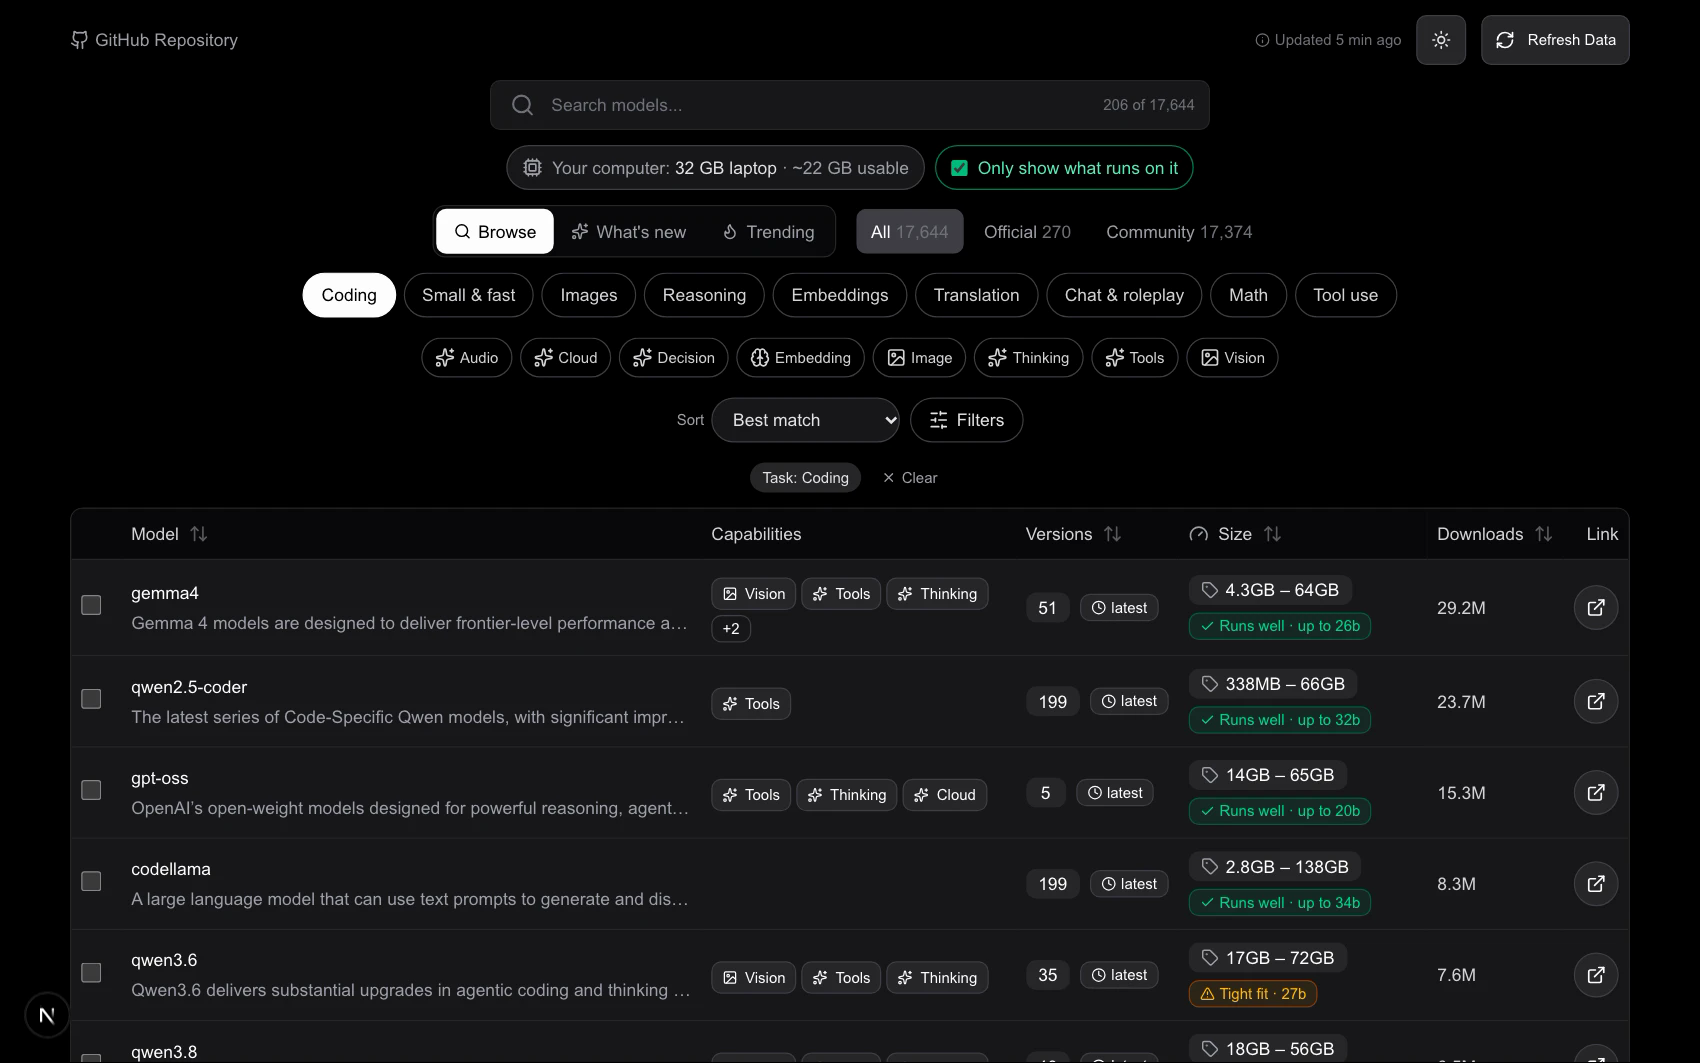
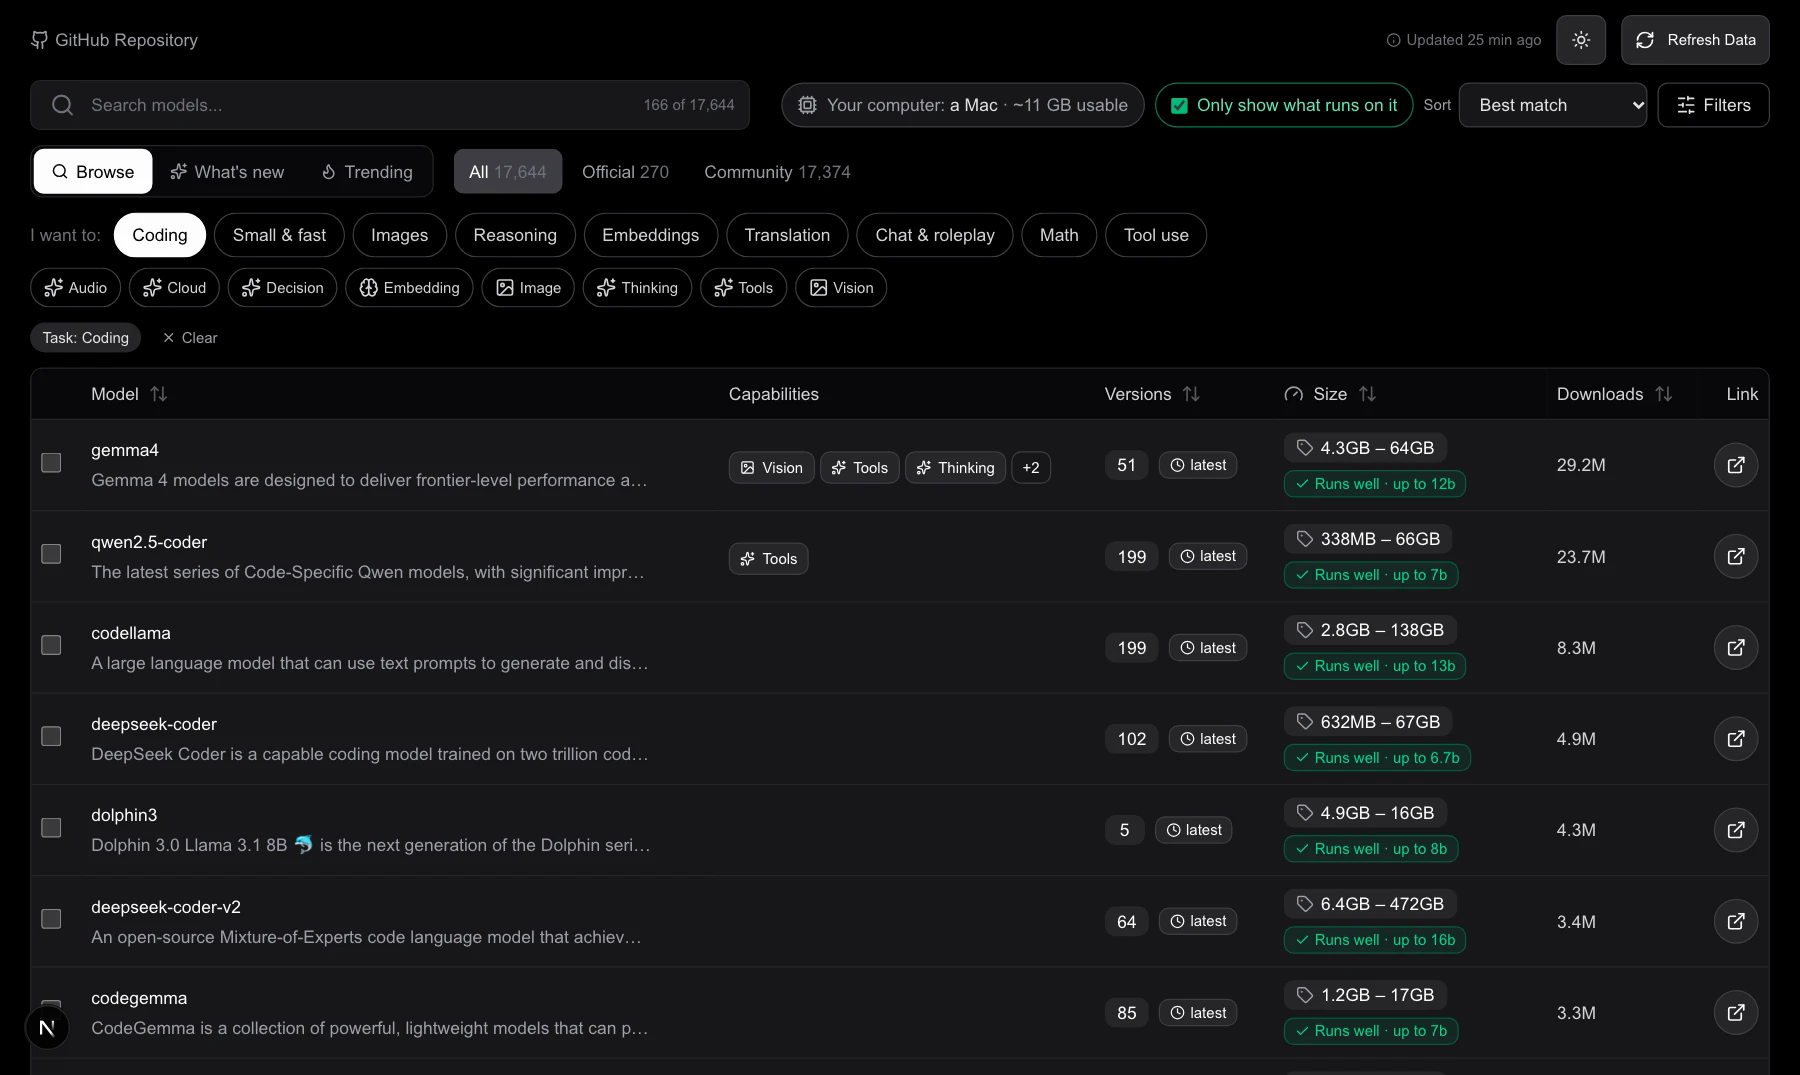
Tidier, full-width layout: one compact toolbar, left-aligned filters, table uses the whole screen

diff --git a/pages/index.tsx b/pages/index.tsx
@@ -346,8 +346,8 @@ export default function Home() {
         <meta name="viewport" content="width=device-width, initial-scale=1, viewport-fit=cover" />
         <link rel="alternate" type="application/rss+xml" title="New Ollama models" href="/feed.xml" />
       </Head>
-      <div className="container mx-auto px-3 sm:px-4 py-3">
-        <div className="w-full mx-auto">
+      <div className="w-full px-3 sm:px-4 lg:px-6 py-3">
+        <div className="w-full">
           {/* Top bar */}
           <div className="flex justify-between items-center text-sm mb-3 gap-2">
             <a href="https://github.com/p32929/ollama_models_explorer" target="_blank" rel="noopener noreferrer" className="inline-flex items-center text-zinc-400 hover:text-white transition-colors min-h-10" aria-label="GitHub repository">
@@ -395,27 +395,48 @@ export default function Home() {
             </div>
           )}
 
-          {/* Search */}
-          <div className="w-full max-w-xl mx-auto relative mb-3">
-            <div className="absolute left-4 top-1/2 -translate-y-1/2 text-zinc-500"><Search className="h-5 w-5" /></div>
-            <Input
-              type="search"
-              placeholder="Search models..."
-              aria-label="Search models"
-              value={filters.q}
-              onChange={e => patch({ q: e.target.value })}
-              className="pl-12 pr-24 h-11 text-base sm:text-sm sm:h-10 bg-zinc-900 border-zinc-800 text-white rounded-md shadow-lg focus-visible:ring-1 focus-visible:ring-white focus-visible:border-transparent"
-            />
-            <div className="absolute right-3 top-1/2 -translate-y-1/2 text-xs text-zinc-500" data-testid="counter">
-              {results.length.toLocaleString()} of {allModels.length.toLocaleString()}
+          {/* Toolbar: search, your computer, sort and filters */}
+          <div className="mb-3 flex flex-col gap-2 lg:flex-row lg:items-center">
+            <div className="relative w-full lg:max-w-xl lg:flex-1">
+              <div className="absolute left-4 top-1/2 -translate-y-1/2 text-zinc-500"><Search className="h-5 w-5" /></div>
+              <Input
+                type="search"
+                placeholder="Search models..."
+                aria-label="Search models"
+                value={filters.q}
+                onChange={e => patch({ q: e.target.value })}
+                className="pl-12 pr-28 h-11 text-base sm:text-sm lg:h-10 bg-zinc-900 border-zinc-800 text-white rounded-md focus-visible:ring-1 focus-visible:ring-white focus-visible:border-transparent"
+              />
+              <div className="absolute right-3 top-1/2 -translate-y-1/2 text-xs text-zinc-500" data-testid="counter">
+                {results.length.toLocaleString()} of {allModels.length.toLocaleString()}
+              </div>
+            </div>
+            <div className="lg:ml-auto"><DevicePicker device={device} onChange={changeDevice} fitOnly={filters.fitOnly} onFitOnly={v => patch({ fitOnly: v })} /></div>
+            <div className="flex items-center gap-2">
+              <label className="inline-flex items-center gap-1.5 text-xs text-zinc-400">
+                <span>Sort</span>
+                <select
+                  value={filters.sort}
+                  onChange={e => patch({ sort: e.target.value as SortField, dir: ['name', 'size', 'versions'].includes(e.target.value) ? 'asc' : 'desc' })}
+                  aria-label="Sort by"
+                  data-testid="sort-select"
+                  className="h-10 lg:h-9 rounded-md border border-zinc-700 bg-zinc-900 px-3 text-sm text-zinc-200"
+                >
+                  {SORT_OPTIONS.map(o => <option key={o.id} value={o.id}>{o.label}</option>)}
+                </select>
+              </label>
+              <button
+                onClick={() => setShowFilters(true)}
+                data-testid="open-filters"
+                className="inline-flex h-10 lg:h-9 items-center gap-1.5 rounded-md border border-zinc-700 px-3.5 text-sm text-zinc-200 hover:bg-zinc-900"
+              >
+                <SlidersHorizontal className="h-4 w-4" /> Filters{filterCount > 0 && <span className="rounded-full bg-white px-1.5 text-xs font-semibold text-black">{filterCount}</span>}
+              </button>
             </div>
           </div>
 
-          {/* Your computer */}
-          <div className="mb-3"><DevicePicker device={device} onChange={changeDevice} fitOnly={filters.fitOnly} onFitOnly={v => patch({ fitOnly: v })} /></div>
-
-          {/* Views and scope */}
-          <div className="mb-3 flex flex-wrap items-center justify-center gap-x-4 gap-y-2">
+          {/* View, scope and model of the week */}
+          <div className="mb-3 flex flex-wrap items-center gap-x-4 gap-y-2">
             <div className="inline-flex max-w-full overflow-x-auto rounded-lg border border-zinc-800 bg-zinc-950 p-0.5" role="tablist" aria-label="View">
               {VIEWS.map(v => (
                 <button
@@ -444,11 +465,23 @@ export default function Home() {
                 </button>
               ))}
             </div>
+            {nothingChosen && modelOfWeek && (
+              <div className="flex w-full items-center gap-3 rounded-xl border border-zinc-800 bg-zinc-900 p-3 lg:ml-auto lg:w-auto lg:rounded-md lg:border-0 lg:bg-transparent lg:p-0" data-testid="model-of-week">
+                <Star className="h-4 w-4 shrink-0 text-amber-400 lg:h-3.5 lg:w-3.5" />
+                <div className="min-w-0 flex-1 lg:flex-none">
+                  <div className="text-[11px] font-semibold uppercase tracking-wide text-amber-400 lg:hidden">Model of the week</div>
+                  <div className="font-semibold text-white break-words lg:text-sm lg:font-medium lg:text-zinc-300"><span className="hidden text-amber-400 lg:inline">Model of the week: </span>{modelOfWeek.name}</div>
+                  <p className="line-clamp-1 text-sm text-zinc-400 lg:hidden">{modelOfWeek.description}</p>
+                </div>
+                <a href={modelOfWeek.url} target="_blank" rel="noopener noreferrer" title={modelOfWeek.description} aria-label={`Open ${modelOfWeek.name}`} className="flex h-10 w-10 shrink-0 items-center justify-center rounded-full text-zinc-300 hover:bg-zinc-800 lg:h-7 lg:w-7"><ExternalLink className="h-4 w-4 lg:h-3.5 lg:w-3.5" /></a>
+              </div>
+            )}
           </div>
 
-          {/* What do you want to do? */}
-          <div className="mb-3 -mx-3 sm:mx-0">
-            <div className="flex gap-1.5 overflow-x-auto px-3 sm:px-0 sm:flex-wrap sm:justify-center pb-1" data-testid="quick-picks" style={{ scrollbarWidth: 'none' }}>
+          {/* What do you want to do? + capabilities: one tidy row on a big screen, two scrolling rows on a phone */}
+          <div className="mb-3 -mx-3 sm:mx-0 lg:flex lg:flex-wrap lg:items-center lg:gap-x-2 lg:gap-y-2">
+            <div className="flex gap-1.5 overflow-x-auto px-3 sm:px-0 lg:flex-wrap pb-1 lg:pb-0" data-testid="quick-picks" style={{ scrollbarWidth: 'none' }}>
+              <span className="hidden shrink-0 self-center pr-1 text-sm text-zinc-500 lg:block">I want to:</span>
               {TASKS.map(t => (
                 <button
                   key={t.id}
@@ -462,11 +495,8 @@ export default function Home() {
                 </button>
               ))}
             </div>
-          </div>
-
-          {/* Capabilities, sort and more filters */}
-          <div className="mb-3 -mx-3 sm:mx-0">
-            <div className="flex gap-1.5 overflow-x-auto px-3 sm:px-0 sm:flex-wrap sm:justify-center pb-1" data-testid="capabilities" style={{ scrollbarWidth: 'none' }}>
+            <span className="mx-2 hidden h-6 w-px bg-zinc-800 2xl:block" />
+            <div className="mt-2 flex gap-1.5 overflow-x-auto px-3 sm:px-0 lg:mt-0 lg:flex-wrap pb-1 lg:pb-0" data-testid="capabilities" style={{ scrollbarWidth: 'none' }}>
               {allCapabilities.map(c => (
                 <Button
                   key={c}
@@ -480,31 +510,10 @@ export default function Home() {
               ))}
             </div>
           </div>
-          <div className="mb-4 flex items-center justify-center gap-2">
-            <label className="inline-flex items-center gap-1.5 text-xs text-zinc-400">
-              <span>Sort</span>
-              <select
-                value={filters.sort}
-                onChange={e => patch({ sort: e.target.value as SortField, dir: ['name', 'size', 'versions'].includes(e.target.value) ? 'asc' : 'desc' })}
-                aria-label="Sort by"
-                data-testid="sort-select"
-                className="h-9 rounded-full border border-zinc-700 bg-zinc-900 px-3 text-sm text-zinc-200"
-              >
-                {SORT_OPTIONS.map(o => <option key={o.id} value={o.id}>{o.label}</option>)}
-              </select>
-            </label>
-            <button
-              onClick={() => setShowFilters(true)}
-              data-testid="open-filters"
-              className="inline-flex h-9 items-center gap-1.5 rounded-full border border-zinc-700 px-3.5 text-sm text-zinc-200 hover:bg-zinc-900"
-            >
-              <SlidersHorizontal className="h-4 w-4" /> Filters{filterCount > 0 && <span className="rounded-full bg-white px-1.5 text-xs font-semibold text-black">{filterCount}</span>}
-            </button>
-          </div>
 
           {/* Active choices */}
           {(filters.cap || filters.task || filters.owner || filters.updatedDays > 0 || filters.maxGB > 0 || filters.minContextK > 0 || filters.dedupe) && (
-            <div className="mb-3 flex flex-wrap items-center justify-center gap-1.5 text-xs" data-testid="active-filters">
+            <div className="mb-3 flex flex-wrap items-center gap-1.5 text-xs" data-testid="active-filters">
               {[
                 filters.task && `Task: ${taskLabel}`,
                 filters.cap && `Capability: ${filters.cap}`,
@@ -519,7 +528,7 @@ export default function Home() {
           )}
 
           {filters.q.trim().length >= 2 && filters.scope !== 'official' && (
-            <div className="text-center text-xs text-zinc-400 mb-3" data-testid="live-search">
+            <div className="text-xs text-zinc-400 mb-3" data-testid="live-search">
               <span>Can&apos;t find it? The saved list can be a few days old. </span>
               <button onClick={runLiveSearch} disabled={liveSearching !== null} className="text-blue-400 hover:text-blue-300 underline underline-offset-2 disabled:opacity-60">
                 {liveSearching ? 'Searching…' : `Search ollama.com live for “${filters.q.trim()}”`}
@@ -529,26 +538,13 @@ export default function Home() {
           )}
 
           {filters.view === 'trending' && (
-            <p className="mb-3 text-center text-xs text-zinc-500" data-testid="trending-note">
+            <p className="mb-3 text-xs text-zinc-500" data-testid="trending-note">
               {growthKnown
                 ? 'Ranked by downloads gained since the last weekly update.'
                 : 'Ranked by downloads and recent updates. Weekly download growth appears after the next list update.'}
             </p>
           )}
-          {filters.view === 'new' && <p className="mb-3 text-center text-xs text-zinc-500">Models added or updated in the last two weeks, newest first.</p>}
-
-          {/* Model of the week */}
-          {nothingChosen && modelOfWeek && (
-            <div className="mb-3 flex items-center gap-3 rounded-xl border border-zinc-800 bg-gradient-to-r from-zinc-900 to-zinc-950 p-3 sm:p-3.5" data-testid="model-of-week">
-              <Star className="h-5 w-5 shrink-0 text-amber-400" />
-              <div className="min-w-0 flex-1">
-                <div className="text-[11px] font-semibold uppercase tracking-wide text-amber-400">Model of the week</div>
-                <div className="font-semibold text-white break-words">{modelOfWeek.name}</div>
-                <p className="line-clamp-1 sm:line-clamp-2 text-sm text-zinc-400">{modelOfWeek.description}</p>
-              </div>
-              <a href={modelOfWeek.url} target="_blank" rel="noopener noreferrer" aria-label={`Open ${modelOfWeek.name}`} className="flex h-10 w-10 shrink-0 items-center justify-center rounded-full text-zinc-300 hover:bg-zinc-800"><ExternalLink className="h-4 w-4" /></a>
-            </div>
-          )}
+          {filters.view === 'new' && <p className="mb-3 text-xs text-zinc-500">Models added or updated in the last two weeks, newest first.</p>}
 
           {/* Results */}
           {allModels.length === 0 && !isPending && !refreshing ? (

diff --git a/components/DevicePicker.tsx b/components/DevicePicker.tsx
@@ -31,7 +31,7 @@ export function DevicePicker({ device, onChange, fitOnly, onFitOnly }: Props) {
   const how = device.manual ? 'you chose this' : device.confidence === 'detected' ? 'detected' : device.confidence === 'estimated' ? 'estimated from your hardware' : 'a guess';
 
   return (
-    <div className="flex items-center justify-center gap-2" data-testid="device-bar">
+    <div className="flex items-center gap-2" data-testid="device-bar">
       <div className="relative min-w-0 flex-1 sm:flex-none" ref={box}>
         <button
           onClick={() => setOpen(o => !o)}
@@ -50,7 +50,7 @@ export function DevicePicker({ device, onChange, fitOnly, onFitOnly }: Props) {
           <div
             role="dialog"
             aria-label="Choose your computer"
-            className="absolute left-0 sm:left-1/2 sm:-translate-x-1/2 mt-2 z-40 w-[min(calc(100vw-1.5rem),22rem)] rounded-xl border border-zinc-700 bg-zinc-900 shadow-2xl p-3 text-left"
+            className="absolute left-0 lg:left-auto lg:right-0 mt-2 z-40 w-[min(calc(100vw-1.5rem),22rem)] rounded-xl border border-zinc-700 bg-zinc-900 shadow-2xl p-3 text-left"
           >
             <p className="text-xs text-zinc-400 px-1 pb-2">
               We read your hardware from the browser ({how}). Browsers hide exact memory, so if this looks wrong, pick the closest:
